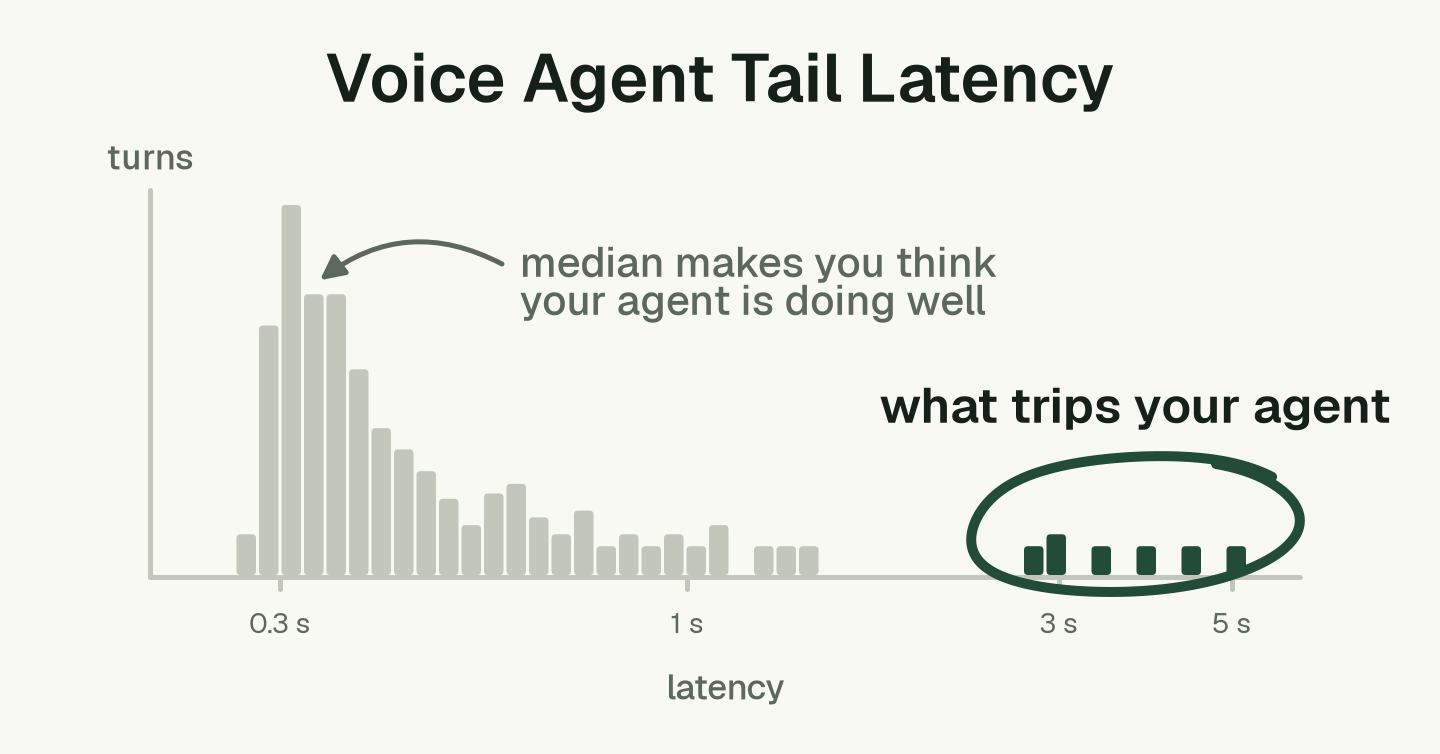
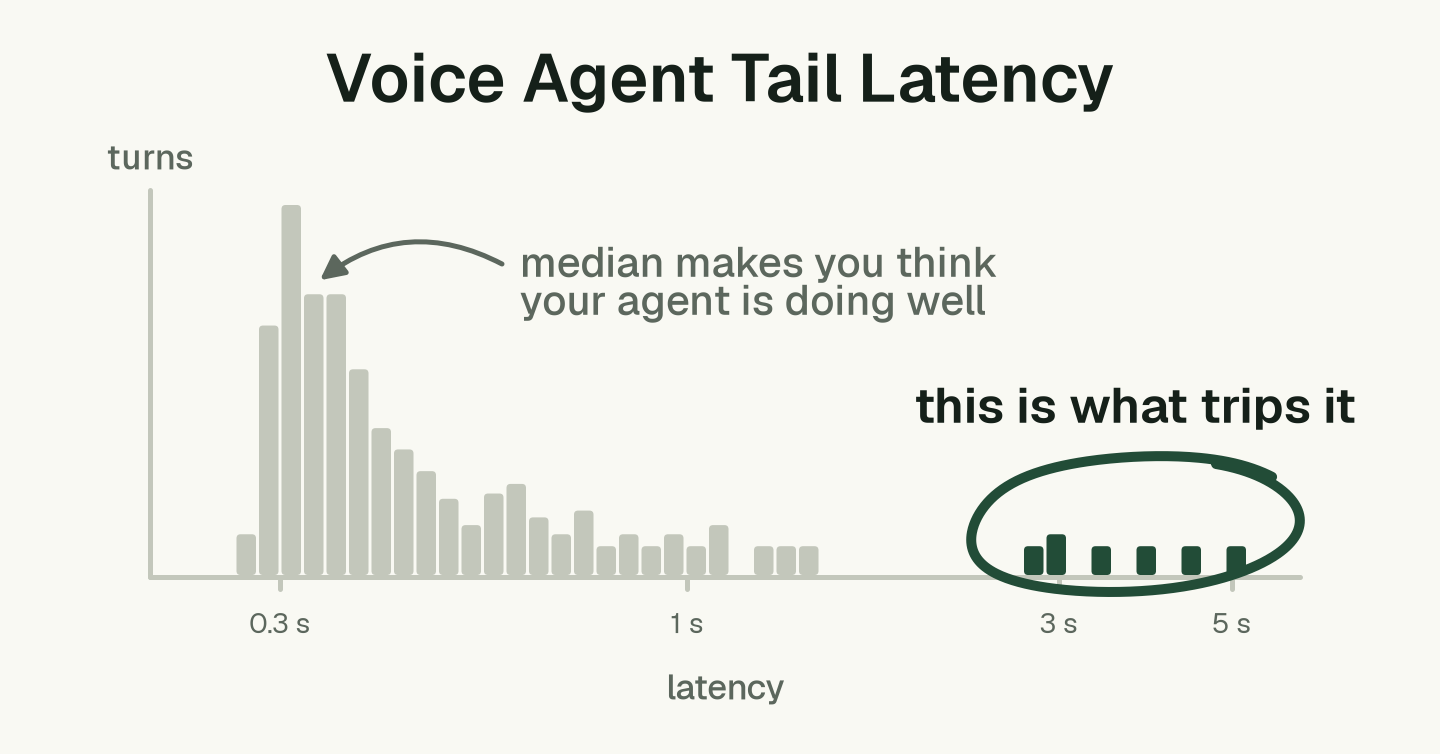
Article 1: cite Vulimiri et al. in the intro, as now on Medium; caption v6, picture label
The intro names redundant requests as "a trick from Vulimiri et al., 2013",
linked. The live Medium post now matches article-v1.md's redundant-requests
wording (title, display title, SEO title and description too). The LinkedIn
picture's tail label is "this is what trips it", and linkedin-caption.md
takes Andy's edits from the LinkedIn draft.

Changed region(s): [[0.5938, 0.5186, 0.9688, 0.5796]]

diff --git a/articles/01-hedge-requests/images/make_figures.py b/articles/01-hedge-requests/images/make_figures.py
@@ -388,7 +388,7 @@ def linkedin_picture(paired, hosts):
     rot = np.radians(-4)
     ax.plot(cx + rx * np.cos(rot) - ry * np.sin(rot), cy + rx * np.sin(rot) + ry * np.cos(rot), color=T["race"],
             linewidth=6, solid_capstyle="round", solid_joinstyle="round")
-    ax.text(cx, cy - rb - 52, "what trips your agent", color=T["ink"], fontsize=30, fontweight=600, ha="center", va="center")
+    ax.text(cx, cy - rb - 52, "this is what trips it", color=T["ink"], fontsize=30, fontweight=600, ha="center", va="center")
     ax.text(W / 2, 78, "Voice Agent Tail Latency", color=T["ink"], fontsize=40, fontweight=600, ha="center", va="center")
     fig.savefig(OUT.parent / "linkedin-post.png", dpi=DPI, facecolor=T["surface"])
     plt.close(fig)

diff --git a/articles/01-hedge-requests/article-v1.md b/articles/01-hedge-requests/article-v1.md
@@ -4,7 +4,7 @@
 
 ![Voice agent tail latency: 7x fewer slow turns and 4x shorter p99, from racing the same model on two providers.](images/00-cover.png)
 
-People are very good at taking turns in conversation. A study of ten languages found speakers everywhere keep the silence between turns short ([Stivers et al., 2009](https://pubmed.ncbi.nlm.nih.gov/19553212/)), so when a voice agent goes quiet for a couple of seconds, people notice. I wanted to know how often the language model is behind those pauses, and whether a trick from 2013 could fix it. So I measured DeepSeek V4.1 Flash, an open-weights model that's quick enough for voice, on two providers that serve it, [Together](https://www.together.ai/) and [inference.net](https://inference.net/). Even the quicker of the two took over a second to reach the first full sentence on 2.3% of turns, and its slowest took 5 seconds.
+People are very good at taking turns in conversation. A study of ten languages found speakers everywhere keep the silence between turns short ([Stivers et al., 2009](https://pubmed.ncbi.nlm.nih.gov/19553212/)), so when a voice agent goes quiet for a couple of seconds, people notice. I wanted to know how often the language model is behind those pauses, and whether redundant requests, a trick from [Vulimiri et al., 2013](https://dl.acm.org/doi/10.1145/2535372.2535392), could fix it. So I measured DeepSeek V4.1 Flash, an open-weights model that's quick enough for voice, on two providers that serve it, [Together](https://www.together.ai/) and [inference.net](https://inference.net/). Even the quicker of the two took over a second to reach the first full sentence on 2.3% of turns, and its slowest took 5 seconds.
 
 Then I sent every turn to both providers at once and kept whichever one started talking first. Turns over a second dropped from 2.3% to 0.3%, and the worst case went from 5.0 s to 1.7 s. The median barely moved, and it didn't need to, since a typical turn was already quick.
 

diff --git a/articles/01-hedge-requests/linkedin-caption.md b/articles/01-hedge-requests/linkedin-caption.md
@@ -1,4 +1,4 @@
-The most underrated optimisation for voice agents isn't new. It's from 2013, and it made LLM replies 7x more consistent.
+The most underrated optimisation for voice agents isn't new. It's in a paper from 2013, and it made LLM replies 7x more consistent.
 
 In a voice call, you can have your turn latency mostly low, but people notice the one reply that hangs for 5 seconds.
 
@@ -6,7 +6,7 @@ That's tail latency, and it affects a good amount of calls no matter how fast yo
 
 The solution to this? Put your eggs in more baskets.
 
-Or in a more boring manner: redundant requests.
+Or in a more technical manner: redundant requests.
 
 Every turn goes to the same model on two providers at once. The first to start talking wins and the other gets cancelled, and because it's the same model, the agent sounds the same whoever wins.
 
@@ -14,7 +14,7 @@ I built a benchmark to measure it. Replies slower than 1s became 7x rarer, and t
 
 Only caveat is, it does double (or triple, or quadruple, depending on how many candidates you have racing) the LLM bill. Having said that, there's little gains going beyond 2 candidates, at least with the scale I tested on.
 
-As far as I can tell, voice frameworks don't do this for you yet, so I open-sourced the benchmark and wrote up the code and the full breakdown: https://bnhquang.medium.com/hedged-requests-llm-voice-agent-latency-81682e044b12
+As far as I can tell, voice frameworks don't do this for you yet, so I open-sourced the benchmark and wrote up the code and the full breakdown in a Medium post: https://bnhquang.medium.com/hedged-requests-llm-voice-agent-latency-81682e044b12
 
 I reckon the next step is to build out a Livekit/Pipecat library for this?
 
